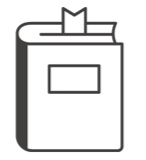
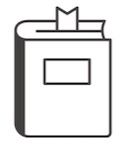
clear aspect ratio

diff --git a/public/css/top.css b/public/css/top.css
@@ -1,8 +1,14 @@
 .image-wrapper {
   text-align: center;
+  height:200px;
+  /* width:200%; */
 }
 .book-image {
-  height: 150px;
+  max-height: 150px;
+  max-width: 100%;
+  /* height: 100%;
+  width: 100%; */
+  /* width: 150px; */
   margin-bottom: 20px;
   object-fit: cover;
 }

diff --git a/resources/views/index.blade.php b/resources/views/index.blade.php
@@ -17,6 +17,9 @@
                 <p class='description'>
                     {{ $review->body }}
                 </p>
+                <p class='description'>
+                    {{ $review->created_at }}
+                </p>
                 <a href="{{ route('show', ['id' => $review->id ]) }}" class='btn btn-secondary detail-btn'>詳細を読む</a>
             </div>
         </div>
